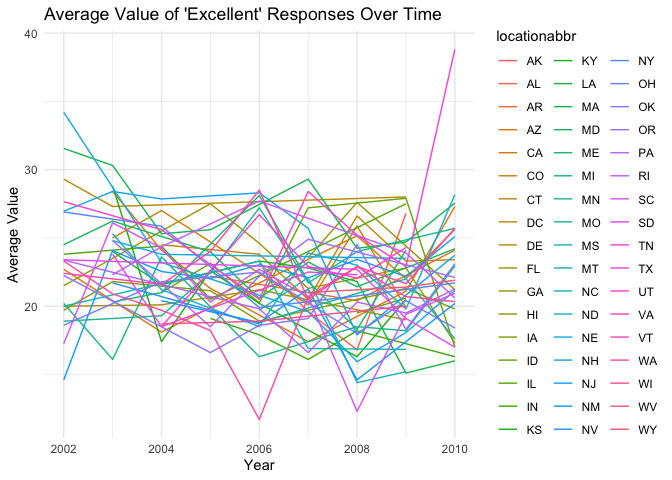
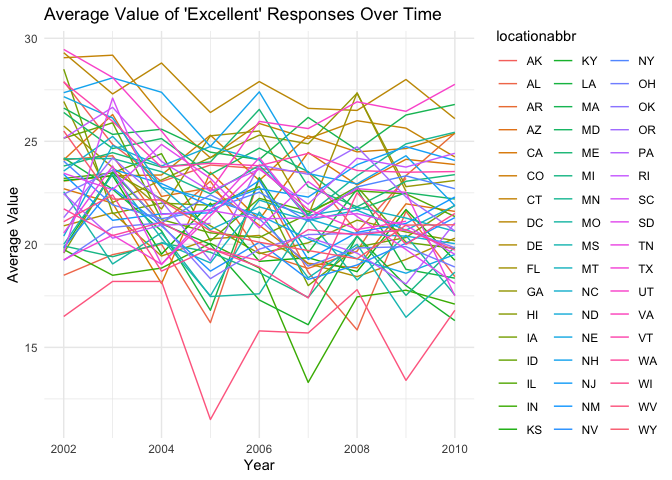
Last part need and discription, Check for pushing git.

diff --git a/p8105_hw3_ys3765.md b/p8105_hw3_ys3765.md
@@ -12,7 +12,7 @@ library(tidyverse)
     ## ── Attaching core tidyverse packages ──────────────────────── tidyverse 2.0.0 ──
     ## ✔ dplyr     1.1.3     ✔ readr     2.1.4
     ## ✔ forcats   1.0.0     ✔ stringr   1.5.0
-    ## ✔ ggplot2   3.4.3     ✔ tibble    3.2.1
+    ## ✔ ggplot2   3.4.4     ✔ tibble    3.2.1
     ## ✔ lubridate 1.9.2     ✔ tidyr     1.3.0
     ## ✔ purrr     1.0.2     
     ## ── Conflicts ────────────────────────────────────────── tidyverse_conflicts() ──
@@ -22,6 +22,7 @@ library(tidyverse)
 
 ``` r
 library(p8105.datasets)
+library(ggplot2)
 data("instacart")
 ```
 
@@ -38,60 +39,61 @@ dic_levels = c("Poor","Fair","Good","Very good","Excellent")
 
 df1_grouped<-df1%>%
   group_by(topic = "Overall Health")%>%
-  filter(response == dic_levels)
-```
+  filter(response %in% dic_levels)
 
-    ## Warning: There was 1 warning in `filter()`.
-    ## ℹ In argument: `response == dic_levels`.
-    ## ℹ In group 1: `topic = "Overall Health"`.
-    ## Caused by warning in `response == dic_levels`:
-    ## ! longer object length is not a multiple of shorter object length
-
-``` r
 df1_grouped_ordered<-df1_grouped %>%
   mutate(response = factor(response,levels = c("Poor","Fair","Good","Very good","Excellent"), ordered=TRUE))
 ```
 
 ``` r
-states_2002 <- df1 %>%
+states_2002 <- df1_grouped_ordered %>%
   filter(year == 2002) %>%
-  group_by(locationabbr) %>%
-  tally() %>%
-  filter(n >= 7)%>%
-  count()
+  distinct(locationabbr,locationdesc)%>%
+  count(locationabbr)%>%
+  filter(n >= 7)
 
 print(states_2002)
 ```
 
-    ## # A tibble: 1 × 1
-    ##       n
-    ##   <int>
-    ## 1    49
+    ## # A tibble: 6 × 3
+    ## # Groups:   topic [1]
+    ##   topic          locationabbr     n
+    ##   <chr>          <chr>        <int>
+    ## 1 Overall Health CT               7
+    ## 2 Overall Health FL               7
+    ## 3 Overall Health MA               8
+    ## 4 Overall Health NC               7
+    ## 5 Overall Health NJ               8
+    ## 6 Overall Health PA              10
 
 ``` r
-states_2010 <- df1 %>%
+states_2010 <- df1_grouped_ordered %>%
   filter(year == 2010) %>%
-  group_by(locationabbr) %>%
-  tally() %>%
+  distinct(locationabbr,locationdesc)%>%
+  count(locationabbr)%>%
   filter(n >= 7)
 
 print(states_2010)
 ```
 
-    ## # A tibble: 49 × 2
-    ##    locationabbr     n
-    ##    <chr>        <int>
-    ##  1 AL             204
-    ##  2 AR             202
-    ##  3 AZ             204
-    ##  4 CA             815
-    ##  5 CO             476
-    ##  6 CT             339
-    ##  7 DC              68
-    ##  8 DE             204
-    ##  9 FL            2785
-    ## 10 GA             270
-    ## # ℹ 39 more rows
+    ## # A tibble: 14 × 3
+    ## # Groups:   topic [1]
+    ##    topic          locationabbr     n
+    ##    <chr>          <chr>        <int>
+    ##  1 Overall Health CA              12
+    ##  2 Overall Health CO               7
+    ##  3 Overall Health FL              41
+    ##  4 Overall Health MA               9
+    ##  5 Overall Health MD              12
+    ##  6 Overall Health NC              12
+    ##  7 Overall Health NE              10
+    ##  8 Overall Health NJ              19
+    ##  9 Overall Health NY               9
+    ## 10 Overall Health OH               8
+    ## 11 Overall Health PA               7
+    ## 12 Overall Health SC               7
+    ## 13 Overall Health TX              16
+    ## 14 Overall Health WA              10
 
 ``` r
 excellent<-df1_grouped_ordered%>%
@@ -112,7 +114,7 @@ ggplot(excellent, aes(x = year, y = average, group = locationabbr, color = locat
   theme_minimal() 
 ```
 
-    ## Warning: Removed 1 row containing missing values (`geom_line()`).
+    ## Warning: Removed 3 rows containing missing values (`geom_line()`).
 
 ![](p8105_hw3_ys3765_files/figure-gfm/construct-1.png)<!-- -->
 
@@ -123,7 +125,7 @@ ny_data <- df1_grouped_ordered %>%
 # Make a two-panel plot
 ggplot(ny_data, aes(x = response, y = data_value)) +
   geom_boxplot() +
-  facet_wrap(~year) +
+  facet_grid(~year) +
   labs(title = "Distribution of Data Value in NY for 2006 and 2010", 
        x = "Response", 
        y = "Data Value") +
@@ -135,9 +137,10 @@ ggplot(ny_data, aes(x = response, y = data_value)) +
 \#Problem 3
 
 ``` r
-pre_nhanes_accel <- read_csv("data/nhanes_accel.csv")%>%
+nhanes_accel <- read_csv("data/nhanes_accel.csv")%>%
   janitor::clean_names()%>%
-  rename(id = seqn)
+  #rename(id = seqn)%>%
+  pivot_longer(min1:min1440,names_to = "table",values_to = "value")
 ```
 
     ## Rows: 250 Columns: 1441
@@ -149,63 +152,67 @@ pre_nhanes_accel <- read_csv("data/nhanes_accel.csv")%>%
     ## ℹ Specify the column types or set `show_col_types = FALSE` to quiet this message.
 
 ``` r
-view(pre_nhanes_accel)
-
-nhanes_accel<-pre_nhanes_accel%>%
-  pivot_longer(min1:min1440,names_to = "table",values_to = "value")
-
-nhanes_covar <- read_csv("data/nhanes_covar.csv")%>%
+nhanes_covar <- read_csv("data/nhanes_covar.csv", skip = 4) %>%
   janitor::clean_names()%>%
-  rename(id = x1,sex = x1_male, age = x3,BMI = x4,education = x1_less_than_high_school)%>%
+  mutate(sex = recode(sex,`1` = "Male", `2`= "Female"),
+         education = recode(education,
+                            `1` = "Less than high school", 
+                            `2` = "High school equivalent", 
+                            `3` = "More than High School" ))%>%
   na.omit()
 ```
 
-    ## New names:
-    ## Rows: 254 Columns: 5
-    ## ── Column specification
-    ## ──────────────────────────────────────────────────────── Delimiter: "," chr
-    ## (5): ...1, 1 = male, ...3, ...4, 1 = Less than high school
-    ## ℹ Use `spec()` to retrieve the full column specification for this data. ℹ
-    ## Specify the column types or set `show_col_types = FALSE` to quiet this message.
-    ## • `` -> `...1`
-    ## • `` -> `...3`
-    ## • `` -> `...4`
+    ## Rows: 250 Columns: 5
+    ## ── Column specification ────────────────────────────────────────────────────────
+    ## Delimiter: ","
+    ## dbl (5): SEQN, sex, age, BMI, education
+    ## 
+    ## ℹ Use `spec()` to retrieve the full column specification for this data.
+    ## ℹ Specify the column types or set `show_col_types = FALSE` to quiet this message.
 
 ``` r
-nhanes_covar$id<-as.numeric(nhanes_covar$id)
-```
-
-    ## Warning: NAs introduced by coercion
-
-``` r
-nhanes_covar<-nhanes_covar[-1,]
 view(nhanes_covar)
-merge_data<-left_join(nhanes_covar,nhanes_accel,by = "id")
-pre_merge_data<-left_join(nhanes_covar,pre_nhanes_accel,by = "id")
-```
+merge_data<-left_join(nhanes_covar,nhanes_accel,by = "seqn")
 
-``` r
 clean_data <- merge_data %>%
   filter(age >= 21) %>%
-  mutate(sex = factor(sex, levels = c("1", "2"), ordered = TRUE),
-         education = factor(education, levels = c("1", "2", "3"),ordered = TRUE))
+  mutate(education = factor(education, levels = c("Less than high school", 
+                                                  "High school equivalent", 
+                                                  "More than High School"), 
+                            ordered = TRUE))
 ```
 
 ``` r
-education_gender_table <- pre_merge_data %>%
+education_gender_table <- clean_data %>%
   group_by(education, sex) %>%
-  tally()
+  summarize(n_obs = n())
+```
 
+    ## `summarise()` has grouped output by 'education'. You can override using the
+    ## `.groups` argument.
+
+``` r
 print(education_gender_table)
 ```
 
     ## # A tibble: 6 × 3
     ## # Groups:   education [3]
-    ##   education sex       n
-    ##   <chr>     <chr> <int>
-    ## 1 1         1        27
-    ## 2 1         2        28
-    ## 3 2         1        36
-    ## 4 2         2        23
-    ## 5 3         1        56
-    ## 6 3         2        59
+    ##   education              sex    n_obs
+    ##   <ord>                  <chr>  <int>
+    ## 1 Less than high school  Female 40320
+    ## 2 Less than high school  Male   38880
+    ## 3 High school equivalent Female 33120
+    ## 4 High school equivalent Male   50400
+    ## 5 More than High School  Female 84960
+    ## 6 More than High School  Male   80640
+
+``` r
+clean_data_plot = 
+  clean_data %>%
+  ggplot(aes(x = education, y = age, color =sex)) +
+  geom_boxplot() +
+  labs(title = "Age Distributions by Gender and Education", x = "Education", y = "Age")
+clean_data_plot
+```
+
+![](p8105_hw3_ys3765_files/figure-gfm/unnamed-chunk-2-1.png)<!-- -->
